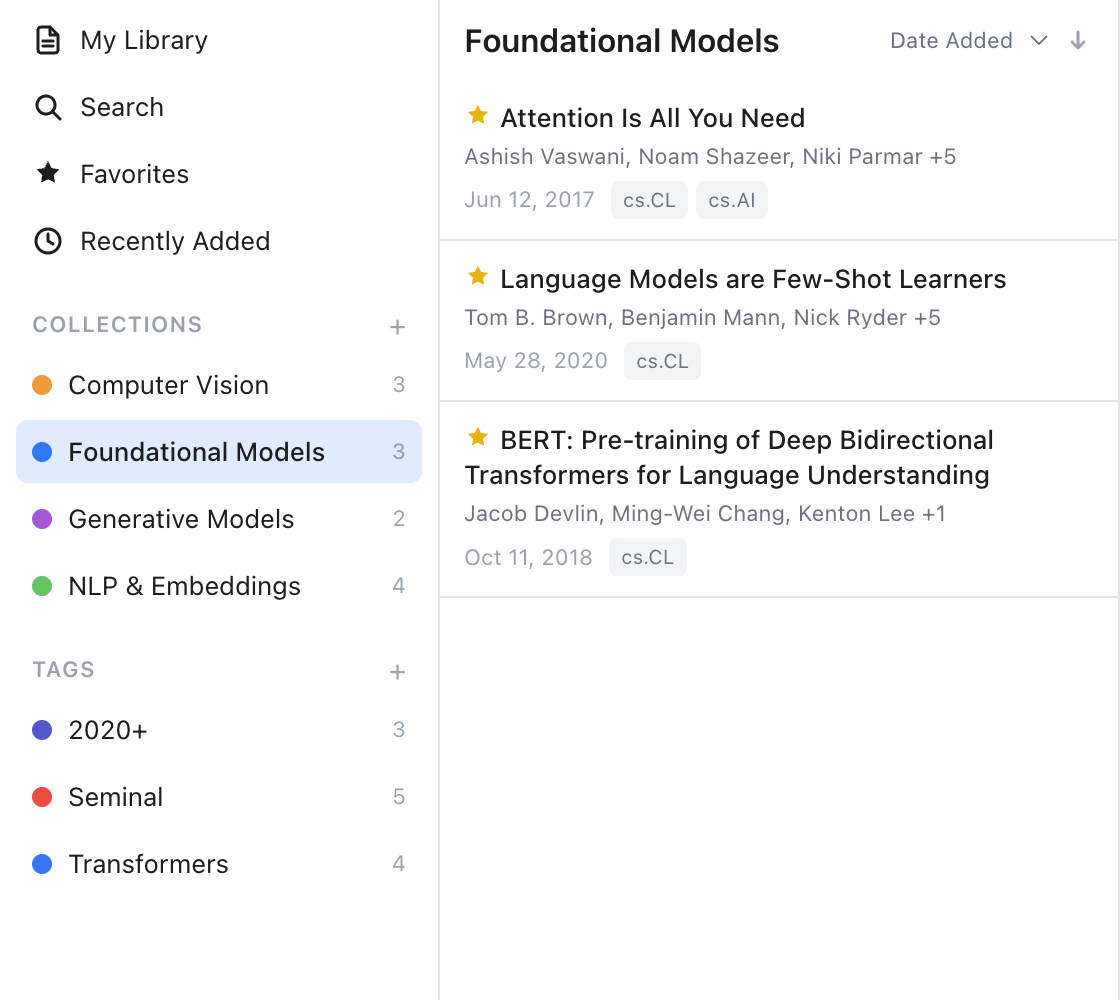
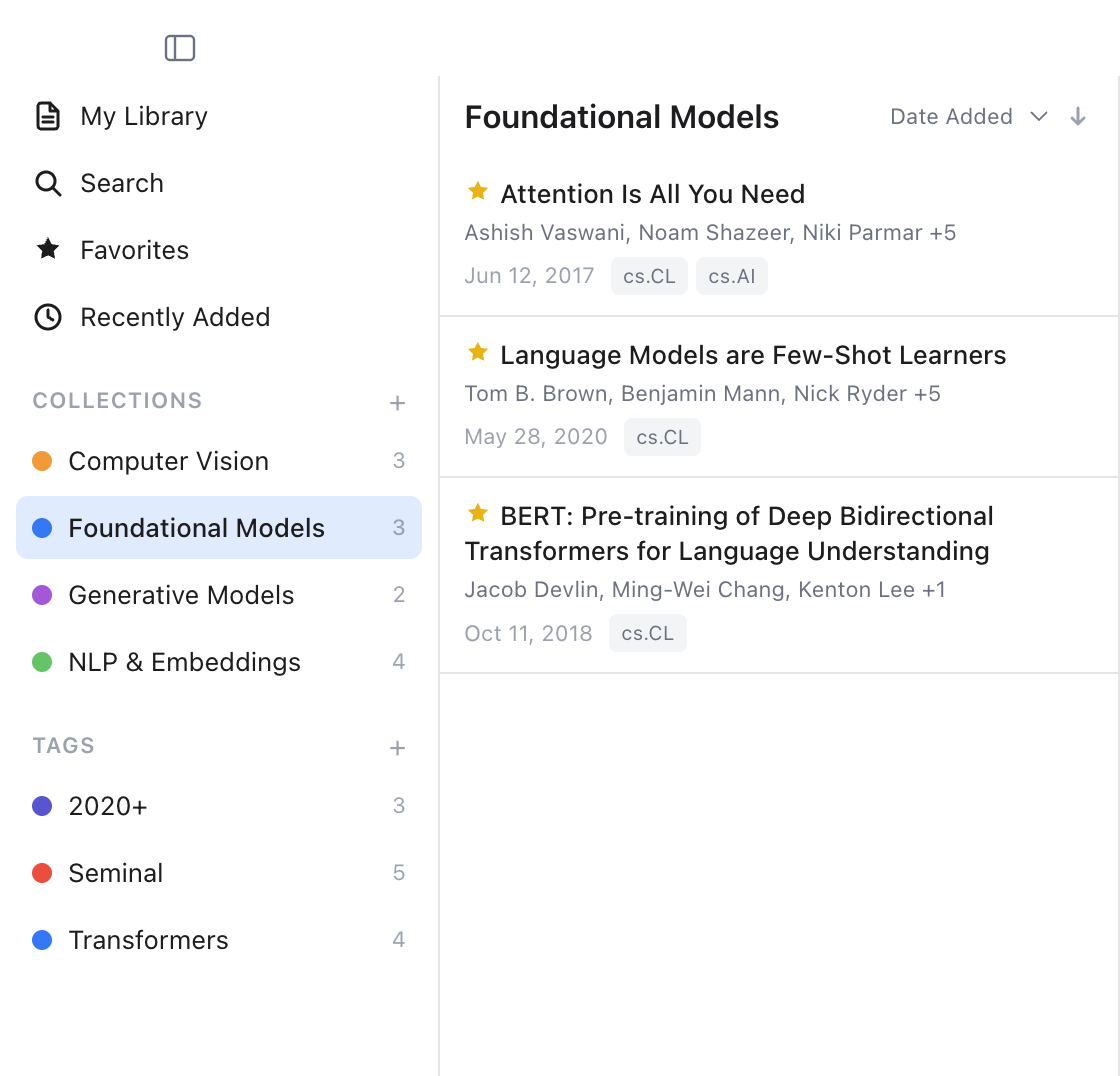
Include real app titlebar in all showcase screenshots
All four showcase screenshots (search, collections, shortcuts, dark-mode)
now capture from y:0 to include the real Electron titlebar. The CSS
window-frame uses no-toolbar variant consistently — no more duplicate
traffic lights.

diff --git a/docs/index.html b/docs/index.html
@@ -99,12 +99,7 @@
           <p>Find papers by keyword, author, or arXiv ID. Preview abstracts and save to your library without leaving the app. Results appear in real time as you type.</p>
         </div>
         <div class="showcase-image">
-          <div class="window-frame">
-            <div class="window-toolbar">
-              <span class="traffic-light red"></span>
-              <span class="traffic-light yellow"></span>
-              <span class="traffic-light green"></span>
-            </div>
+          <div class="window-frame window-frame-no-toolbar">
             <picture>
               <img src="assets/screenshots/search.png" alt="arXiv search with results"
                    onerror="this.parentElement.outerHTML='<div class=\'screenshot-placeholder\'>search.png</div>'">
@@ -120,12 +115,7 @@
           <p>Group related papers into collections with custom colors. Build reading lists, project bibliographies, or topic clusters. A paper can belong to multiple collections.</p>
         </div>
         <div class="showcase-image">
-          <div class="window-frame">
-            <div class="window-toolbar">
-              <span class="traffic-light red"></span>
-              <span class="traffic-light yellow"></span>
-              <span class="traffic-light green"></span>
-            </div>
+          <div class="window-frame window-frame-no-toolbar">
             <picture>
               <img src="assets/screenshots/collections.png" alt="Collection view in sidebar"
                    onerror="this.parentElement.outerHTML='<div class=\'screenshot-placeholder\'>collections.png</div>'">
@@ -157,12 +147,7 @@
           <p>PaperShelf follows your system appearance. Every view, dialog, and the PDF reader adapt seamlessly to light and dark mode.</p>
         </div>
         <div class="showcase-image">
-          <div class="window-frame window-frame-dark">
-            <div class="window-toolbar">
-              <span class="traffic-light red"></span>
-              <span class="traffic-light yellow"></span>
-              <span class="traffic-light green"></span>
-            </div>
+          <div class="window-frame window-frame-no-toolbar">
             <picture>
               <img src="assets/screenshots/dark-mode.png" alt="PaperShelf in dark mode"
                    onerror="this.parentElement.outerHTML='<div class=\'screenshot-placeholder\'>dark-mode.png</div>'">

diff --git a/scripts/take-screenshots.ts b/scripts/take-screenshots.ts
@@ -142,6 +142,8 @@ const FAVORITES = ['1706.03762', '2005.14165', '1810.04805'];
 
 // Clip region that crops the 38px titlebar (traffic lights + sidebar toggle)
 const FULL_CLIP = { x: 0, y: TITLEBAR_HEIGHT, width: WINDOW_WIDTH, height: WINDOW_HEIGHT - TITLEBAR_HEIGHT };
+// Showcase clips include the real app titlebar
+const SHOWCASE_CLIP = { x: 0, y: 0, width: 560, height: 500 + TITLEBAR_HEIGHT };
 
 async function main() {
   const testDataDir = fs.mkdtempSync(path.join(os.tmpdir(), 'papershelf-screenshots-'));
@@ -279,10 +281,9 @@ async function main() {
   await window.getByText('Mistral 7B').first().click();
   await window.waitForTimeout(1000);
 
-  // Crop to sidebar + paper list only
   await window.screenshot({
     path: path.join(SCREENSHOT_DIR, 'search.png'),
-    clip: { x: 0, y: TITLEBAR_HEIGHT, width: 560, height: 500 },
+    clip: SHOWCASE_CLIP,
   });
   console.log('  ✓ search.png');
 
@@ -296,10 +297,9 @@ async function main() {
   await window.getByText('Mistral 7B').first().click();
   await window.waitForTimeout(300);
 
-  // Crop to sidebar + paper list only
   await window.screenshot({
     path: path.join(SCREENSHOT_DIR, 'collections.png'),
-    clip: { x: 0, y: TITLEBAR_HEIGHT, width: 560, height: 500 },
+    clip: SHOWCASE_CLIP,
   });
   console.log('  ✓ collections.png');
 
@@ -319,10 +319,9 @@ async function main() {
   console.log('  Store debug:', storeDebug);
   await window.waitForTimeout(500);
 
-  // Include titlebar so the real app bar is visible
   await window.screenshot({
     path: path.join(SCREENSHOT_DIR, 'shortcuts.png'),
-    clip: { x: 0, y: 0, width: 560, height: 500 + TITLEBAR_HEIGHT },
+    clip: SHOWCASE_CLIP,
   });
 
   await window.evaluate(() => {
@@ -345,10 +344,9 @@ async function main() {
   await window.getByText('Mistral 7B').first().click();
   await window.waitForTimeout(1500);
 
-  // Crop to sidebar + paper list only
   await window.screenshot({
     path: path.join(SCREENSHOT_DIR, 'dark-mode.png'),
-    clip: { x: 0, y: TITLEBAR_HEIGHT, width: 560, height: 500 },
+    clip: SHOWCASE_CLIP,
   });
   console.log('  ✓ dark-mode.png');
 
